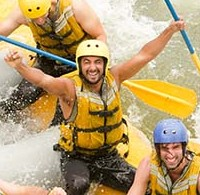
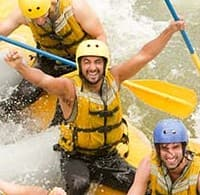
changed image to correct kb

diff --git a/wwr/about.html b/wwr/about.html
@@ -5,7 +5,7 @@
 <head>
     <meta charset="UTF-8">
     <meta name="viewport" content="width=device-width, initial-scale=1.0">
-    <title>White Water Rafting</title>
+    <title>About Us - Water Rafting Adventures</title>
     <meta name="description" content="White Water Rafting, Let the Thrill of the Water Take You on an Adventure">
     <meta name="author" content="Emily Bennion">
     <link rel="stylesheet" href="styles/rafting.css">
